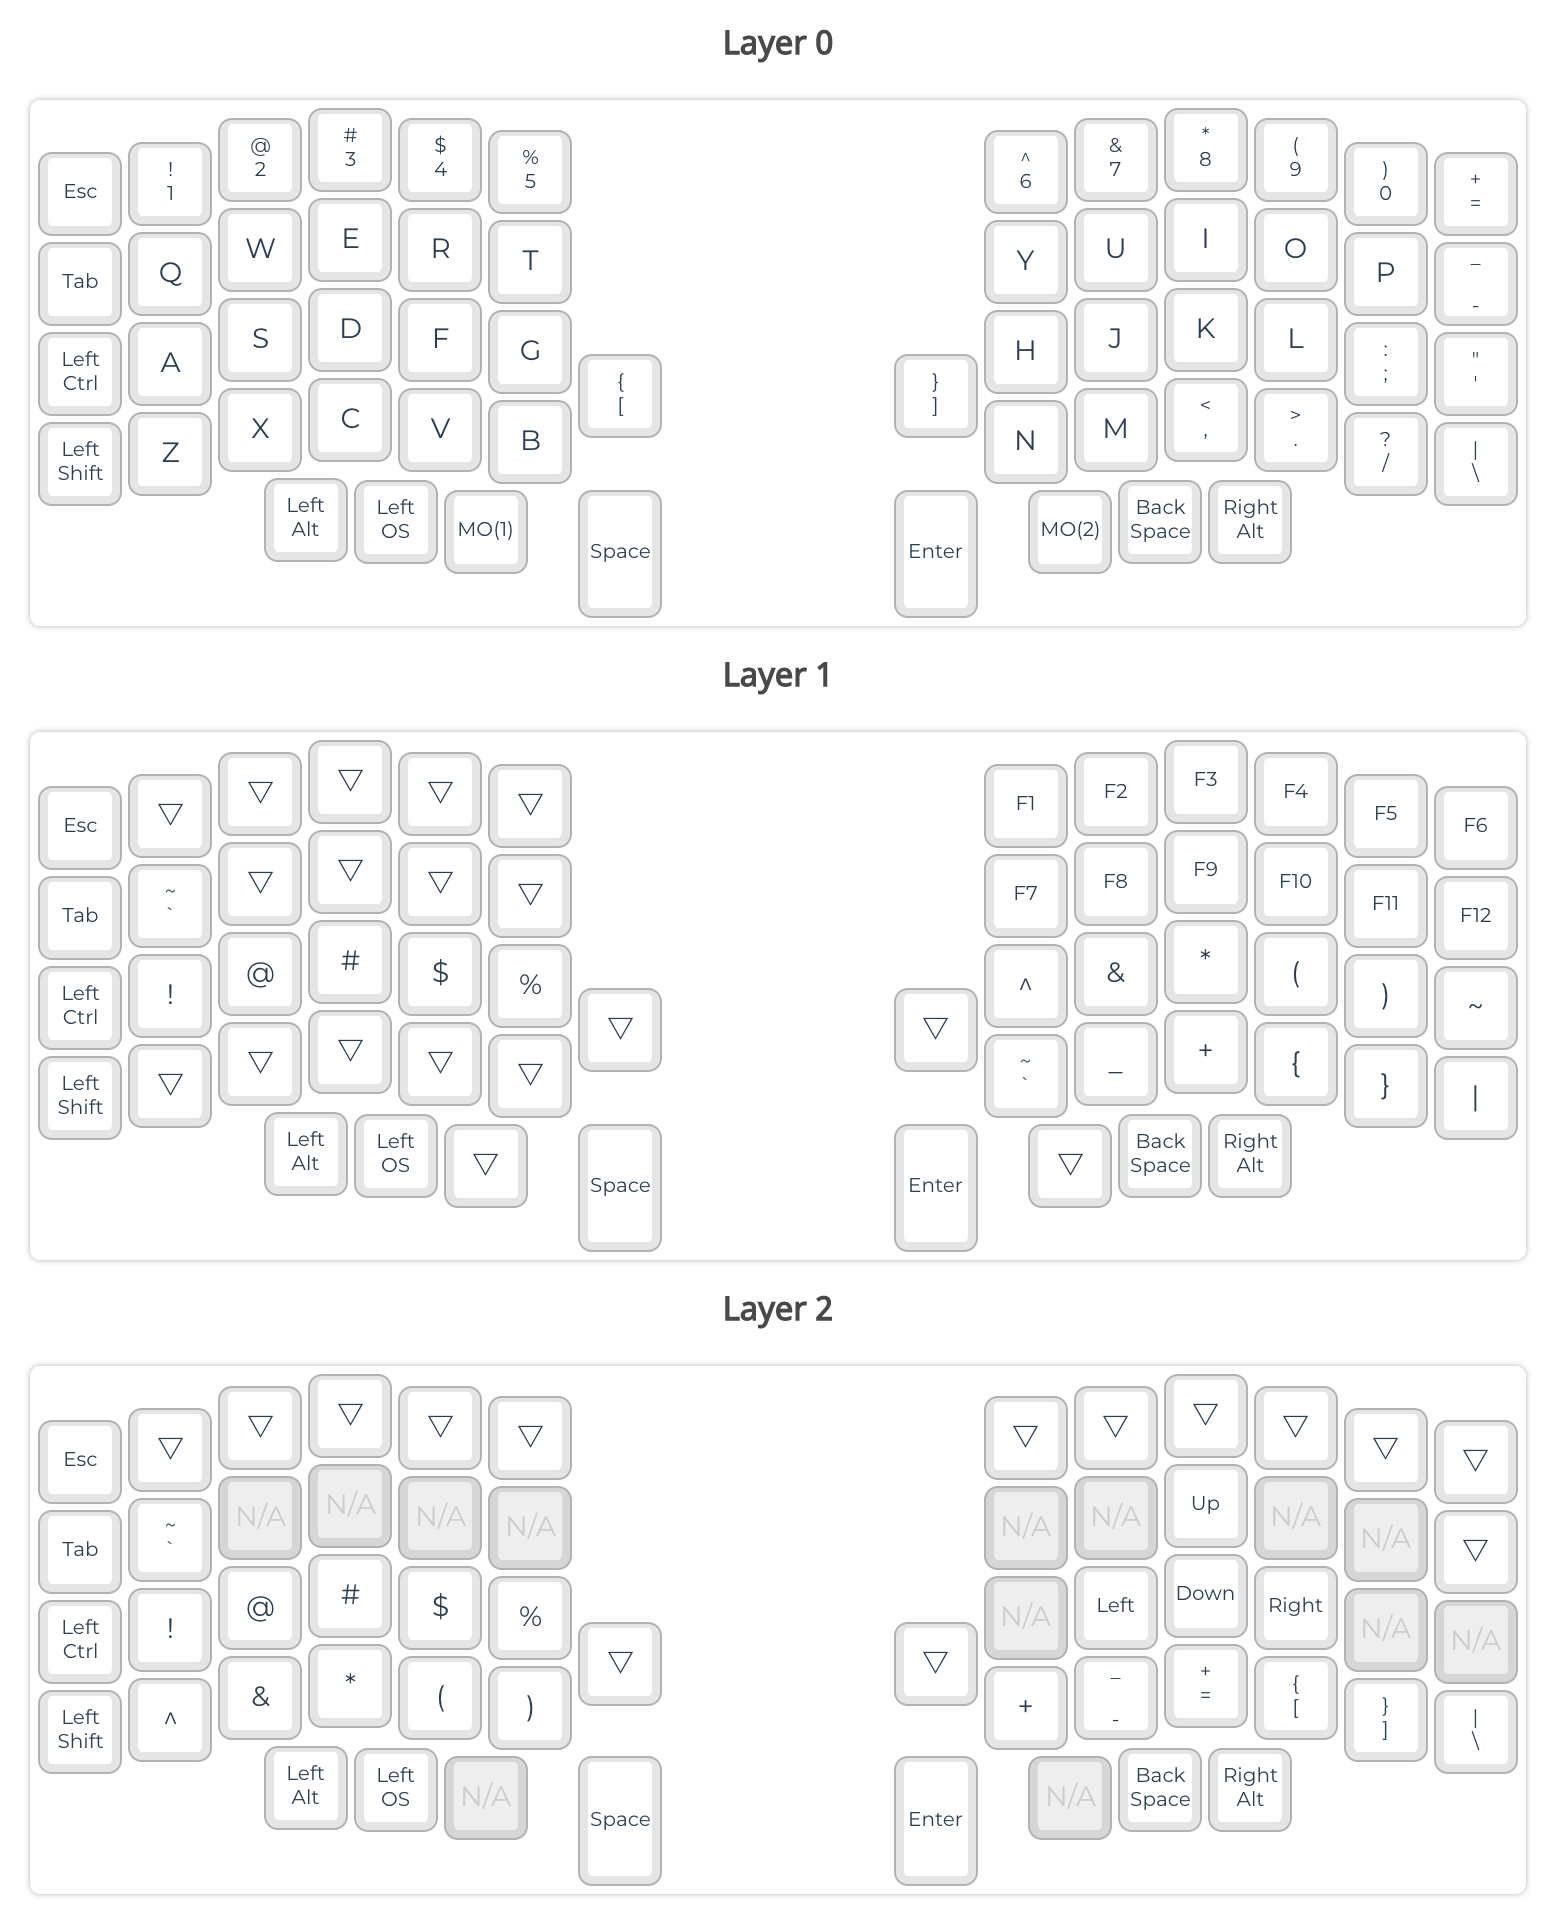
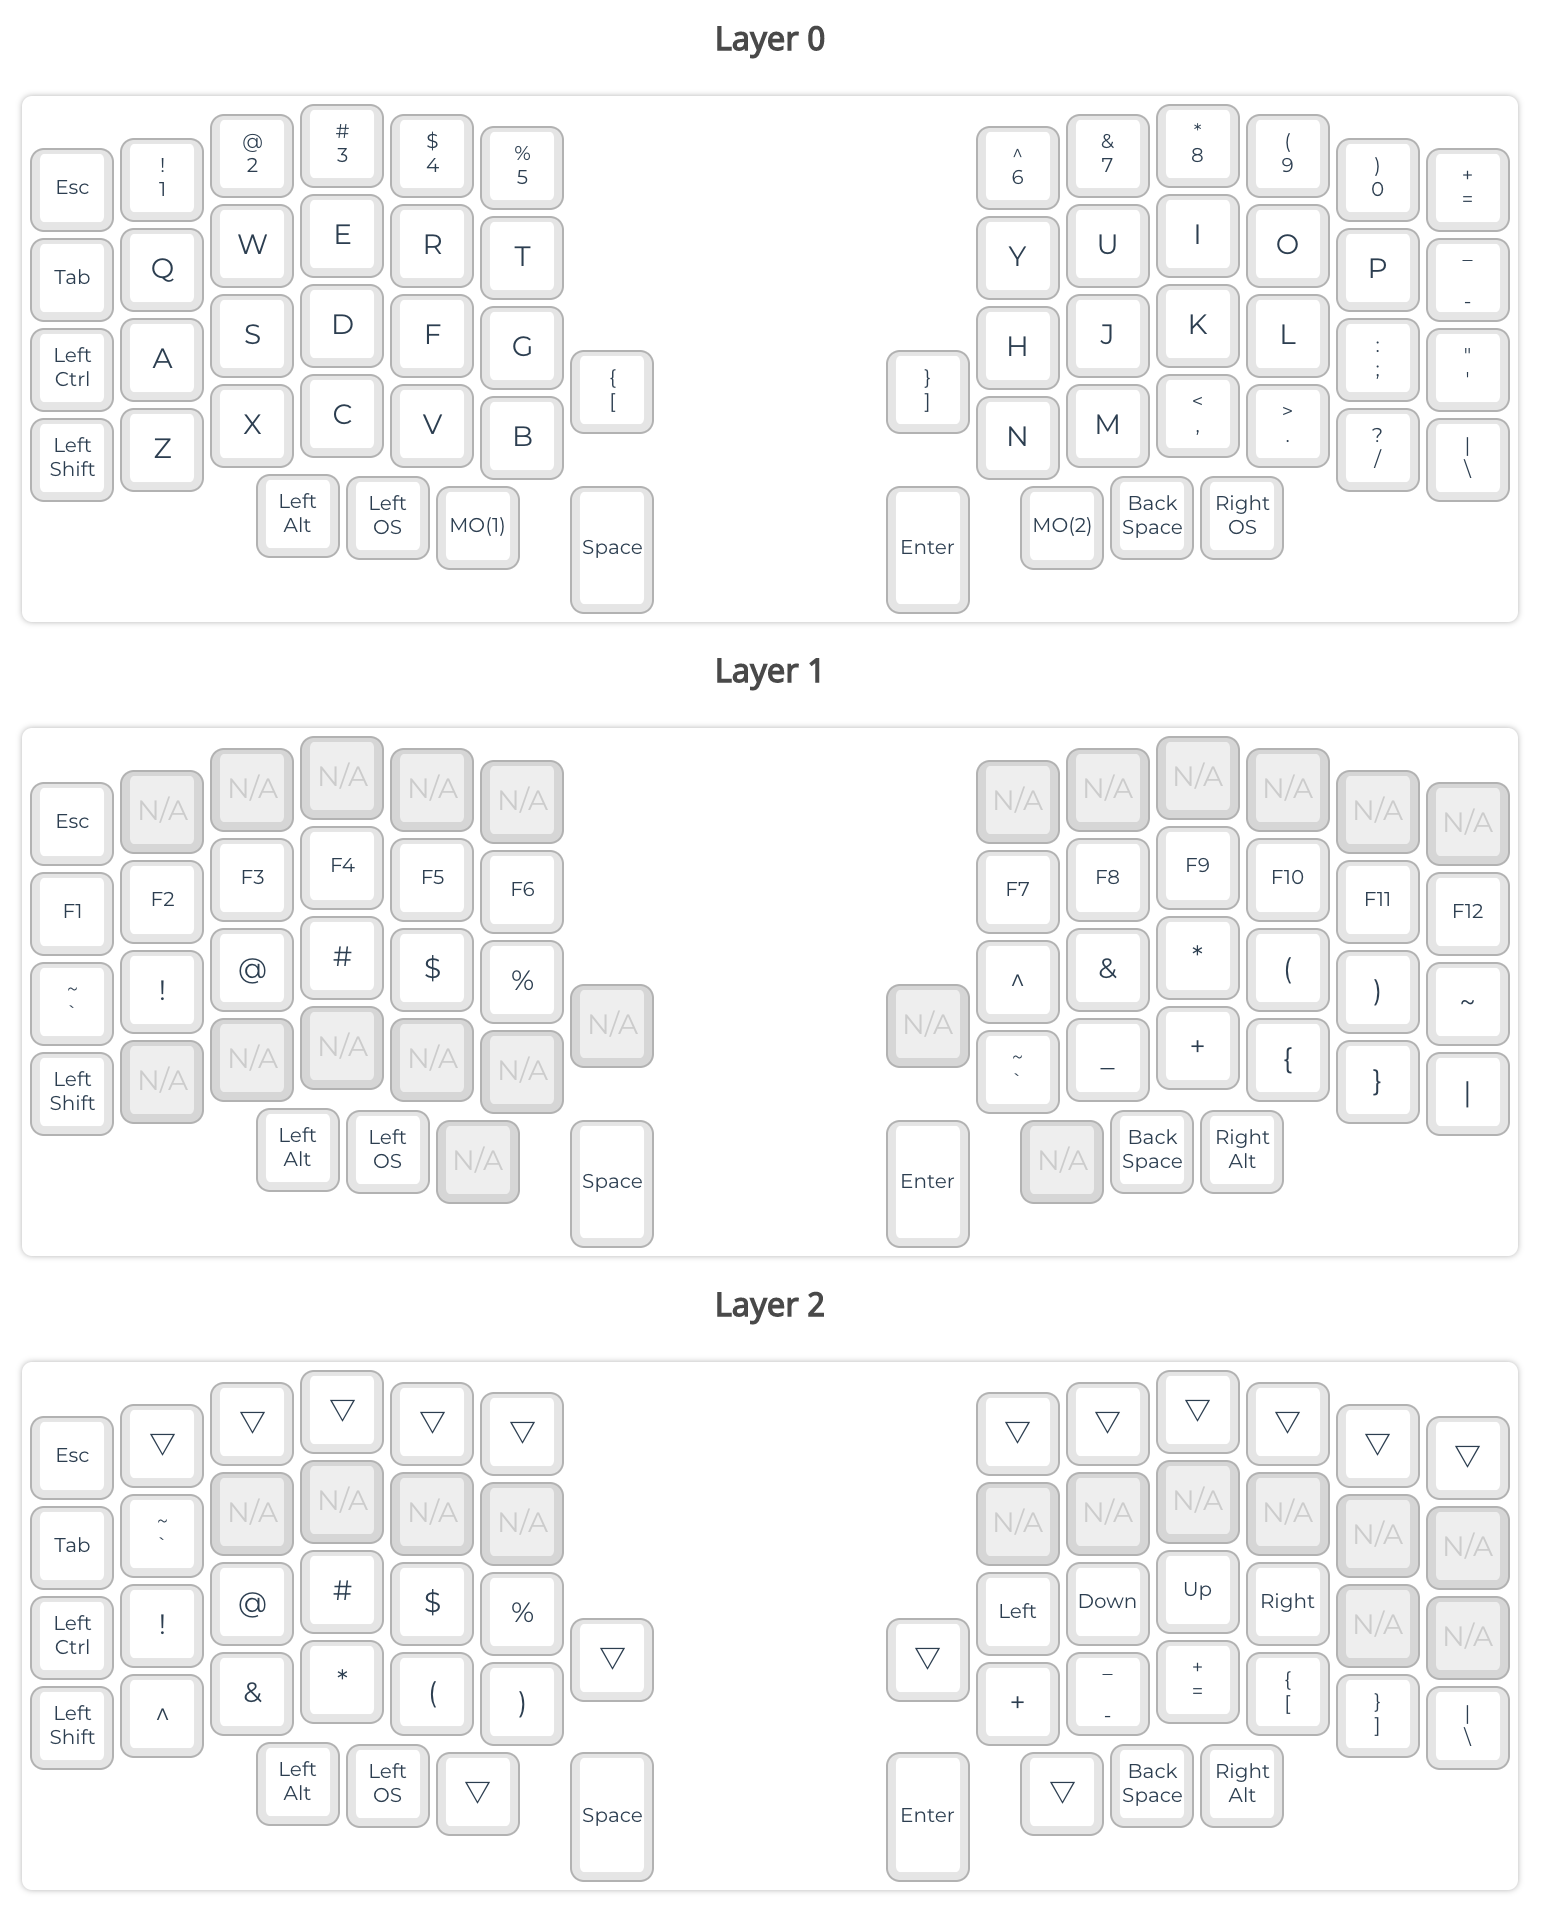
Update

diff --git a/keyboards/lily58/keymaps/amaotone/keymap.c b/keyboards/lily58/keymaps/amaotone/keymap.c
@@ -1,154 +1,8 @@
 #include QMK_KEYBOARD_H
 
-#ifdef PROTOCOL_LUFA
-  #include "lufa.h"
-  #include "split_util.h"
-#endif
-#ifdef SSD1306OLED
-  #include "ssd1306.h"
-#endif
-
-
-extern keymap_config_t keymap_config;
-
-#ifdef RGBLIGHT_ENABLE
-//Following line allows macro to read current RGB settings
-extern rgblight_config_t rgblight_config;
-#endif
-
-extern uint8_t is_master;
-
-#define _QWERTY 0
-#define _LOWER 1
-#define _RAISE 2
-#define _ADJUST 3
-
-enum custom_keycodes {
-  QWERTY = SAFE_RANGE,
-  LOWER,
-  RAISE,
-  ADJUST,
-};
-
 const uint16_t PROGMEM keymaps[][MATRIX_ROWS][MATRIX_COLS] = {
-	[0] = LAYOUT(KC_ESC, KC_1, KC_2, KC_3, KC_4, KC_5, KC_6, KC_7, KC_8, KC_9, KC_0, KC_EQL, KC_TAB, KC_Q, KC_W, KC_E, KC_R, KC_T, KC_Y, KC_U, KC_I, KC_O, KC_P, KC_MINS, KC_LCTL, KC_A, KC_S, KC_D, KC_F, KC_G, KC_H, KC_J, KC_K, KC_L, KC_SCLN, KC_QUOT, KC_LSFT, KC_Z, KC_X, KC_C, KC_V, KC_B, KC_LBRC, KC_RBRC, KC_N, KC_M, KC_COMM, KC_DOT, KC_SLSH, KC_BSLS, KC_LALT, KC_LGUI, MO(1), KC_SPC, KC_ENT, MO(2), KC_BSPC, KC_RALT),
-	[1] = LAYOUT(KC_ESC, KC_TRNS, KC_TRNS, KC_TRNS, KC_TRNS, KC_TRNS, KC_F1, KC_F2, KC_F3, KC_F4, KC_F5, KC_F6, KC_TAB, KC_GRV, KC_TRNS, KC_TRNS, KC_TRNS, KC_TRNS, KC_F7, KC_F8, KC_F9, KC_F10, KC_F11, KC_F12, KC_LCTL, KC_EXLM, KC_AT, KC_HASH, KC_DLR, KC_PERC, KC_CIRC, KC_AMPR, KC_ASTR, KC_LPRN, KC_RPRN, KC_TILD, KC_LSFT, KC_TRNS, KC_TRNS, KC_TRNS, KC_TRNS, KC_TRNS, KC_TRNS, KC_TRNS, KC_GRV, KC_UNDS, KC_PLUS, KC_LCBR, KC_RCBR, KC_PIPE, KC_LALT, KC_LGUI, KC_TRNS, KC_SPC, KC_ENT, KC_TRNS, KC_BSPC, KC_RALT),
-	[2] = LAYOUT(KC_ESC, KC_TRNS, KC_TRNS, KC_TRNS, KC_TRNS, KC_TRNS, KC_TRNS, KC_TRNS, KC_TRNS, KC_TRNS, KC_TRNS, KC_TRNS, KC_TAB, KC_GRV, KC_NO, KC_NO, KC_NO, KC_NO, KC_NO, KC_NO, KC_UP, KC_NO, KC_NO, KC_TRNS, KC_LCTL, KC_EXLM, KC_AT, KC_HASH, KC_DLR, KC_PERC, KC_NO, KC_LEFT, KC_DOWN, KC_RGHT, KC_NO, KC_NO, KC_LSFT, KC_CIRC, KC_AMPR, KC_ASTR, KC_LPRN, KC_RPRN, KC_TRNS, KC_TRNS, KC_PLUS, KC_MINS, KC_EQL, KC_LBRC, KC_RBRC, KC_BSLS, KC_LALT, KC_LGUI, KC_NO, KC_SPC, KC_ENT, KC_NO, KC_BSPC, KC_RALT),
+	[0] = LAYOUT(KC_ESC, KC_1, KC_2, KC_3, KC_4, KC_5, KC_6, KC_7, KC_8, KC_9, KC_0, KC_EQL, KC_TAB, KC_Q, KC_W, KC_E, KC_R, KC_T, KC_Y, KC_U, KC_I, KC_O, KC_P, KC_MINS, KC_LCTL, KC_A, KC_S, KC_D, KC_F, KC_G, KC_H, KC_J, KC_K, KC_L, KC_SCLN, KC_QUOT, KC_LSFT, KC_Z, KC_X, KC_C, KC_V, KC_B, KC_LBRC, KC_RBRC, KC_N, KC_M, KC_COMM, KC_DOT, KC_SLSH, KC_BSLS, KC_LALT, KC_LGUI, MO(1), KC_SPC, KC_ENT, MO(2), KC_BSPC, KC_RGUI),
+	[1] = LAYOUT(KC_ESC, KC_NO, KC_NO, KC_NO, KC_NO, KC_NO, KC_NO, KC_NO, KC_NO, KC_NO, KC_NO, KC_NO, KC_F1, KC_F2, KC_F3, KC_F4, KC_F5, KC_F6, KC_F7, KC_F8, KC_F9, KC_F10, KC_F11, KC_F12, KC_GRV, KC_EXLM, KC_AT, KC_HASH, KC_DLR, KC_PERC, KC_CIRC, KC_AMPR, KC_ASTR, KC_LPRN, KC_RPRN, KC_TILD, KC_LSFT, KC_NO, KC_NO, KC_NO, KC_NO, KC_NO, KC_NO, KC_NO, KC_GRV, KC_UNDS, KC_PLUS, KC_LCBR, KC_RCBR, KC_PIPE, KC_LALT, KC_LGUI, KC_NO, KC_SPC, KC_ENT, KC_NO, KC_BSPC, KC_RALT),
+	[2] = LAYOUT(KC_ESC, KC_TRNS, KC_TRNS, KC_TRNS, KC_TRNS, KC_TRNS, KC_TRNS, KC_TRNS, KC_TRNS, KC_TRNS, KC_TRNS, KC_TRNS, KC_TAB, KC_GRV, KC_NO, KC_NO, KC_NO, KC_NO, KC_NO, KC_NO, KC_NO, KC_NO, KC_NO, KC_NO, KC_LCTL, KC_EXLM, KC_AT, KC_HASH, KC_DLR, KC_PERC, KC_LEFT, KC_DOWN, KC_UP, KC_RGHT, KC_NO, KC_NO, KC_LSFT, KC_CIRC, KC_AMPR, KC_ASTR, KC_LPRN, KC_RPRN, KC_TRNS, KC_TRNS, KC_PLUS, KC_MINS, KC_EQL, KC_LBRC, KC_RBRC, KC_BSLS, KC_LALT, KC_LGUI, KC_TRNS, KC_SPC, KC_ENT, KC_TRNS, KC_BSPC, KC_RALT),
 	[3] = LAYOUT(KC_NO, KC_NO, KC_NO, KC_NO, KC_NO, KC_NO, KC_NO, KC_NO, KC_NO, KC_NO, KC_NO, KC_NO, KC_NO, KC_NO, KC_NO, KC_NO, KC_NO, KC_NO, KC_NO, KC_NO, KC_NO, KC_NO, KC_NO, KC_NO, KC_NO, KC_NO, KC_NO, KC_NO, KC_NO, KC_NO, KC_NO, KC_NO, RGB_TOG, RGB_HUI, RGB_SAI, RGB_VAI, KC_NO, KC_NO, KC_NO, KC_NO, KC_NO, KC_NO, KC_NO, KC_NO, KC_NO, KC_NO, RGB_MOD, RGB_HUD, RGB_SAD, RGB_VAD, KC_TRNS, KC_TRNS, KC_TRNS, KC_TRNS, KC_TRNS, KC_TRNS, KC_TRNS, KC_TRNS)
 };
-
-int RGB_current_mode;
-
-// Setting ADJUST layer RGB back to default
-void update_tri_layer_RGB(uint8_t layer1, uint8_t layer2, uint8_t layer3) {
-  if (IS_LAYER_ON(layer1) && IS_LAYER_ON(layer2)) {
-    layer_on(layer3);
-  } else {
-    layer_off(layer3);
-  }
-}
-
-void matrix_init_user(void) {
-    #ifdef RGBLIGHT_ENABLE
-      RGB_current_mode = rgblight_config.mode;
-    #endif
-    //SSD1306 OLED init, make sure to add #define SSD1306OLED in config.h
-    #ifdef SSD1306OLED
-        iota_gfx_init(!has_usb());   // turns on the display
-    #endif
-}
-
-//SSD1306 OLED update loop, make sure to add #define SSD1306OLED in config.h
-#ifdef SSD1306OLED
-
-// When add source files to SRC in rules.mk, you can use functions.
-const char *read_layer_state(void);
-const char *read_logo(void);
-void set_keylog(uint16_t keycode, keyrecord_t *record);
-const char *read_keylog(void);
-const char *read_keylogs(void);
-
-// const char *read_mode_icon(bool swap);
-// const char *read_host_led_state(void);
-// void set_timelog(void);
-// const char *read_timelog(void);
-
-void matrix_scan_user(void) {
-   iota_gfx_task();
-}
-
-void matrix_render_user(struct CharacterMatrix *matrix) {
-  if (is_master) {
-    // If you want to change the display of OLED, you need to change here
-    matrix_write_ln(matrix, read_layer_state());
-    matrix_write_ln(matrix, read_keylog());
-    matrix_write_ln(matrix, read_keylogs());
-    //matrix_write_ln(matrix, read_mode_icon(keymap_config.swap_lalt_lgui));
-    //matrix_write_ln(matrix, read_host_led_state());
-    //matrix_write_ln(matrix, read_timelog());
-  } else {
-    matrix_write(matrix, read_logo());
-  }
-}
-
-void matrix_update(struct CharacterMatrix *dest, const struct CharacterMatrix *source) {
-  if (memcmp(dest->display, source->display, sizeof(dest->display))) {
-    memcpy(dest->display, source->display, sizeof(dest->display));
-    dest->dirty = true;
-  }
-}
-
-void iota_gfx_task_user(void) {
-  struct CharacterMatrix matrix;
-  matrix_clear(&matrix);
-  matrix_render_user(&matrix);
-  matrix_update(&display, &matrix);
-}
-#endif//SSD1306OLED
-
-bool process_record_user(uint16_t keycode, keyrecord_t *record) {
-  if (record->event.pressed) {
-#ifdef SSD1306OLED
-    set_keylog(keycode, record);
-#endif
-    // set_timelog();
-  }
-
-  switch (keycode) {
-    case QWERTY:
-      if (record->event.pressed) {
-        set_single_persistent_default_layer(_QWERTY);
-      }
-      return false;
-      break;
-    case LOWER:
-      if (record->event.pressed) {
-        layer_on(_LOWER);
-        update_tri_layer_RGB(_LOWER, _RAISE, _ADJUST);
-      } else {
-        layer_off(_LOWER);
-        update_tri_layer_RGB(_LOWER, _RAISE, _ADJUST);
-      }
-      return false;
-      break;
-    case RAISE:
-      if (record->event.pressed) {
-        layer_on(_RAISE);
-        update_tri_layer_RGB(_LOWER, _RAISE, _ADJUST);
-      } else {
-        layer_off(_RAISE);
-        update_tri_layer_RGB(_LOWER, _RAISE, _ADJUST);
-      }
-      return false;
-      break;
-    case ADJUST:
-        if (record->event.pressed) {
-          layer_on(_ADJUST);
-        } else {
-          layer_off(_ADJUST);
-        }
-        return false;
-        break;
-  }
-  return true;
-}
